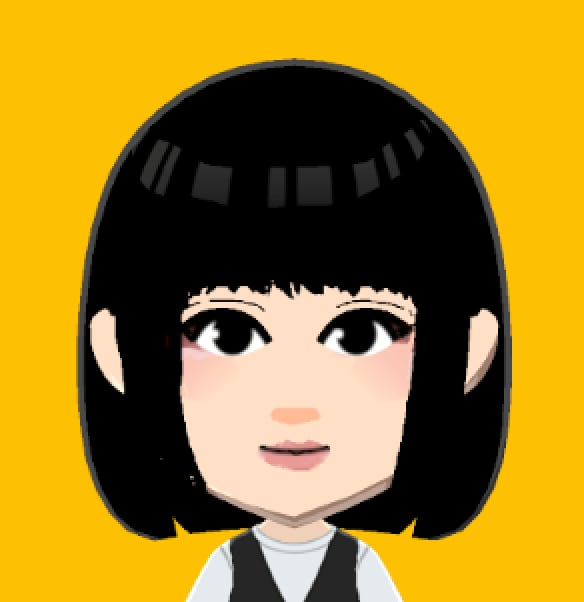
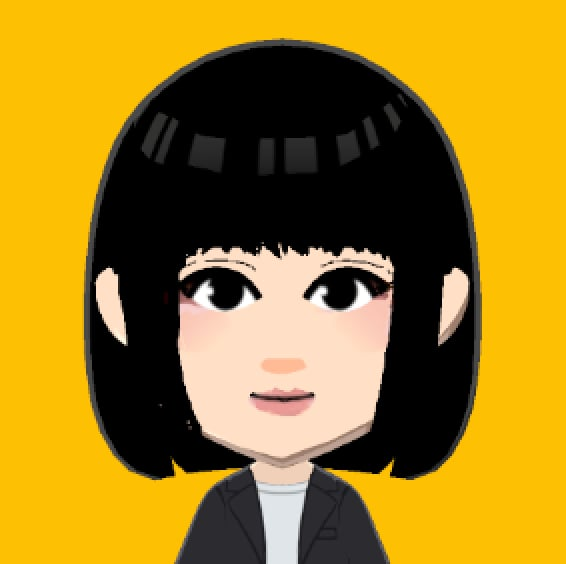
Add files via upload

Changed region(s): [[0.1201, 0.0603, 0.9011, 1.0]]

diff --git a/Web/app.py b/Web/app.py
@@ -279,14 +279,22 @@ if menu == "Analysis":
      col3.metric("Avg Daily Time", round(filtered_df["daily_active_minutes_instagram"].mean(), 1))
 
      st.subheader("Age Distribution")
+     bins = [0, 18, 25, 35, 45, 60, 100]
+     labels = ['<18', '18-25', '26-35', '36-45', '46-60', '60+']
 
-     fig = px.histogram(filtered_df, x="age", nbins=20, text_auto=True)
+     filtered_df["age_group"] = pd.cut(filtered_df["age"], bins=bins, labels=labels)
+     age_counts = (filtered_df["age_group"].value_counts().sort_values())
+     fig=px.bar(x=age_counts.index,y=age_counts.values,text_auto=True)
      fig.update_traces(
         marker_line_color="white",
         marker_line_width=2,
         textposition="outside"
     )
-
+     fig.update_layout(
+      plot_bgcolor="rgba(0,0,0,0)",
+      paper_bgcolor="rgba(0,0,0,0)")
+     fig.update_layout(xaxis_title="Age Group",yaxis_title="Count")
+     
      st.plotly_chart(fig, width="stretch")
      st.markdown(
      "<p style='font-size:12px;'><b>Age Distribution Analysis of All Users</b></p>",
@@ -295,11 +303,13 @@ if menu == "Analysis":
      st.markdown(
        """
        <div style='text-align: justify;'>
-       The histogram illustrates the age distribution of a user group, ranging from approximately 12 to 67 years old. Overall, the data shows a fluctuating pattern with the highest concentration of users in the middle-aged and young-adult.
+       The bar chart illustrates the population distribution across six different age categories.
 
-In detail, the most significant peak is seen in the 32–37 age group, which has 24 users. This is closely followed by the 40–45 and 52–57 age group, both having around 23 users. Moreover, there is a notable drop in the 27–32 age range, where the number of users falls to only 10, the lowest point in the first half of the graph. As users get older, the figures generally decline, with the 57–62 category recording only 11 users before a slight rise to 13 in the final bracket.
+Overall, the chart shows a clear upward trend where the number of individuals increases with age, peaking in the 46-60 demographic. In contrast, the 60+ group represents the smallest segment of the population.
 
-Overall, the distribution indicates that most users are concentrated between their early 30s and mid-50s, while younger and older age groups are slightly less represented. This suggests that the platform or dataset tends to attract a larger proportion of middle-aged users compared with teenagers or seniors.
+The 46-60 age group is the most numerous, with 59 individuals. This is followed by a steady decline in younger cohorts: the 36-45 group has 43 people, while the 26-35 and 18-25 brackets count 35 and 25 respectively.
+
+The two smallest groups are the youngest and the oldest. Those under 18 number 21, while the 60+ category recorded the lowest figure at just 17. Interestingly, the most populous group (46-60) is more than three times larger than the least populous one (60+).
         <div/>
         """,
         unsafe_allow_html=True)
@@ -307,6 +317,9 @@ Overall, the distribution indicates that most users are concentrated between the
      st.subheader("Gender Distribution")
      fig = px.pie(filtered_df, names="Gender")
      st.plotly_chart(fig, width="stretch")
+     fig.update_layout(
+      plot_bgcolor="rgba(0,0,0,0)",
+      paper_bgcolor="rgba(0,0,0,0)")
      st.markdown(
      "<p style='font-size:12px;'><b>Gender Distribution Analysis of All Users</b></p>",
      unsafe_allow_html=True
@@ -333,11 +346,17 @@ Combined, these minority groups represent less than one-tenth of the overall gen
      with col1:
         st.subheader("Daily Usage")
         fig = px.box(filtered_df, y="daily_active_minutes_instagram")
+        fig.update_layout(
+      plot_bgcolor="rgba(0,0,0,0)",
+      paper_bgcolor="rgba(0,0,0,0)")
         st.plotly_chart(fig, width="stretch")
 
      with col2:
         st.subheader("Session Length")
         fig = px.box(filtered_df, y="average_session_length_minutes")
+        fig.update_layout(
+      plot_bgcolor="rgba(0,0,0,0)",
+      paper_bgcolor="rgba(0,0,0,0)")
         st.plotly_chart(fig, width="stretch")
      st.markdown(
      "<p style='font-size:12px;'><b>Daily Usage & Session Length Analysis of All Users</b></p>",
@@ -382,6 +401,9 @@ In contrast, session lengths are more concentrated; the median session lasts abo
      fig.update_traces(
         textposition="inside"
     )
+     fig.update_layout(
+      plot_bgcolor="rgba(0,0,0,0)",
+      paper_bgcolor="rgba(0,0,0,0)")
      st.plotly_chart(fig, width='stretch')
      st.markdown(
      "<p style='font-size:12px;'><b>Daily Instagram Usage Analysis by Residential Area of All Users</b></p>",
@@ -419,8 +441,13 @@ Urban users account for the lowest daily usage, though at approximately 184 minu
         x="Followers count",
         y="user_engagement_score",
         color="content_type_preference",
-        size="posts_created_per_week"
+        size="posts_created_per_week",
+        opacity=0.3,
+        size_max=40
     )
+     fig.update_layout(
+      plot_bgcolor="rgba(0,0,0,0)",
+      paper_bgcolor="rgba(0,0,0,0)")
      st.plotly_chart(fig, width="stretch")
      st.markdown(
      "<p style='font-size:12px;'><b>Followers vs Engagement Score Analysis of All Users</b></p>",
@@ -429,11 +456,13 @@ Urban users account for the lowest daily usage, though at approximately 184 minu
      st.markdown(
        """
        <div style='text-align: justify;'>
-       The scatter chart illustrates the relationship between follower counts and user engagement scores on a social media platform, categorized by content preference. Overall, there is a clear concentration of users with fewer than 4,000 followers, and while engagement scores vary widely for this group, they generally decrease as follower counts increase.
+       The bubble chart illustrates the relationship between follower counts and user engagement scores on a social media platform, categorized by content preference. Overall, there is a clear concentration of users with fewer than 4,000 followers, and while engagement scores vary widely for this group, they generally decrease as follower counts increase.
 
 Most users are clustered at the lower end of the follower scale (0 to 2,000), where engagement scores range significantly from nearly 0 to 10. Specifically, users who prefer "Live" and "Photos" content occasionally achieve the highest engagement scores, peaking at approximately 11.5 and 9.5 respectively within the 2k-4k follower range.
 
-In contrast, users with larger followings, exceeding 8,000, tend to exhibit much lower and more stable engagement scores, rarely surpassing 2.0. Additionally, the size of the bubbles, representing the volume of content, appears larger among users with high engagement but fewer followers. Ultimately, the data suggests that having a massive follower base does not guarantee high engagement, as the most interactive accounts are often those with smaller, more niche audiences.
+In contrast, users with larger followings, exceeding 8,000, tend to exhibit much lower and more stable engagement scores, rarely surpassing 2.0. Additionally, the size of the bubbles, representing the volume of content, appears larger among users with high engagement but fewer followers. 
+
+Ultimately, the data suggests that having a massive follower base does not guarantee high engagement, as the most interactive accounts are often those with smaller, more niche audiences.
         <div/>
         """,
         unsafe_allow_html=True)
@@ -451,12 +480,16 @@ In contrast, users with larger followings, exceeding 8,000, tend to exhibit much
     ]
      else:
       engage_df = filtered_df
-     fig = px.bar(
-        engage_df,
-        x="posts_created_per_week",
-        y="user_engagement_score",
-        color="content_type_preference"
-    )
+     avg_df = engage_df.groupby("posts_created_per_week",as_index=False)["user_engagement_score"].mean()
+
+     fig = px.line(avg_df,
+     x="posts_created_per_week",
+     y="user_engagement_score",
+     markers=True)
+     fig.update_layout(
+     plot_bgcolor="rgba(0,0,0,0)",
+     paper_bgcolor="rgba(0,0,0,0)")
+
      st.plotly_chart(fig, width='stretch')
      st.markdown(
      "<p style='font-size:12px;'><b>User Engagement by Posting Frequency Analysis of All Users</b></p>",
@@ -465,11 +498,13 @@ In contrast, users with larger followings, exceeding 8,000, tend to exhibit much
      st.markdown(
        """
        <div style='text-align: justify;'>
-       The stacked bar chart compares total user engagement scores based on the number of posts created per week, segmented by preferred content types. Overall, engagement peaks at a moderate posting frequency of two to three times per week and steadily declines as the number of weekly posts increases beyond that point.
+       The line chart shows the relationship between the number of posts created per week and user engagement scores across different content types.
 
-The highest total engagement is recorded at 2 posts per week, reaching a cumulative score of nearly 70. At this level, "Photos" and "Mixed" content contribute the largest portions to the total. This is followed closely by the 3-post-per-week category, which sees a slightly lower total of approximately 55, though it maintains a diverse mix of content types including "Reels" and "Stories."
+Overall, engagement is highest when users post moderately, especially two to three times per week. In contrast, engagement declines as posting frequency increases beyond this point.
 
-As posting frequency rises further, engagement levels drop significantly. By the time users reach 10 or more posts per week, total engagement scores fall below 20 and continue to diminish toward negligible levels at 16 posts. Notably, "Live" content (indicated in green) maintains a consistent presence across low-to-mid posting frequencies but almost disappears in the high-frequency brackets. In summary, a "less is more" trend is evident, where posting more than three times weekly correlates with a sharp reduction in total engagement.
+Users posting twice weekly achieve the highest engagement score, mainly driven by Photos and Mixed content. Engagement remains relatively high at three posts per week but gradually decreases afterward. By contrast, users posting more than ten times weekly receive very low engagement.
+
+In summary, the chart suggests that moderate posting frequency leads to higher user engagement than excessive posting.
         <div/>
         """,
         unsafe_allow_html=True)
@@ -492,6 +527,9 @@ As posting frequency rises further, engagement levels drop significantly. By the
      else:
       engage_df = filtered_df
      fig = px.pie(engage_df, names="content_type_preference")
+     fig.update_layout(
+      plot_bgcolor="rgba(0,0,0,0)",
+      paper_bgcolor="rgba(0,0,0,0)")
      st.plotly_chart(fig, width="stretch")
      st.markdown(
      "<p style='font-size:12px;'><b>Content Types Preference Analysis of All Users</b></p>",
@@ -537,6 +575,9 @@ To conclude, the chart highlights many user interests and suggests that content 
       df_melt = df_melt[
         df_melt["Feature"] == engage_option3]
      fig = px.box(df_melt, x="Feature", y="Usage", color="Feature")
+     fig.update_layout(
+      plot_bgcolor="rgba(0,0,0,0)",
+      paper_bgcolor="rgba(0,0,0,0)")
      st.plotly_chart(fig, width="stretch")
      st.markdown(
      "<p style='font-size:12px;'><b>Feature Usage Analysis of All Users</b></p>",
@@ -581,7 +622,9 @@ Regarding specific app components, the Feed is the dominant feature, with a medi
 # Clean look (no gridlines)
      fig.update_xaxes(showgrid=False)
      fig.update_yaxes(showgrid=False)
-    
+     fig.update_layout(
+      plot_bgcolor="rgba(0,0,0,0)",
+      paper_bgcolor="rgba(0,0,0,0)")
      st.plotly_chart(fig, width='stretch')
      st.markdown(
      "<p style='font-size:12px;'><b>Diet Quality Analysis of All Users</b></p>",
@@ -622,6 +665,9 @@ To conclude, the chart indicates that average diet quality is the most common ac
         color_continuous_scale=[
             "#FDEDEC", "#F5B7B1", "#EC7063", "#C0392B"
         ])
+      fig.update_layout(
+      plot_bgcolor="rgba(0,0,0,0)",
+      paper_bgcolor="rgba(0,0,0,0)")
 
       fig.update_layout(
         title_x=0.5,
@@ -962,7 +1008,7 @@ elif menu == "About our Team":
         )
             # ---------- MEMBER 3 ----------
     with col3:
-        st.image("member3.png", width='stretch')
+        st.image("member3.jpeg", width='stretch')
         st.markdown(
         '<p class="team-name">Dang Thai Thuy Linh</p>',
         unsafe_allow_html=True)
